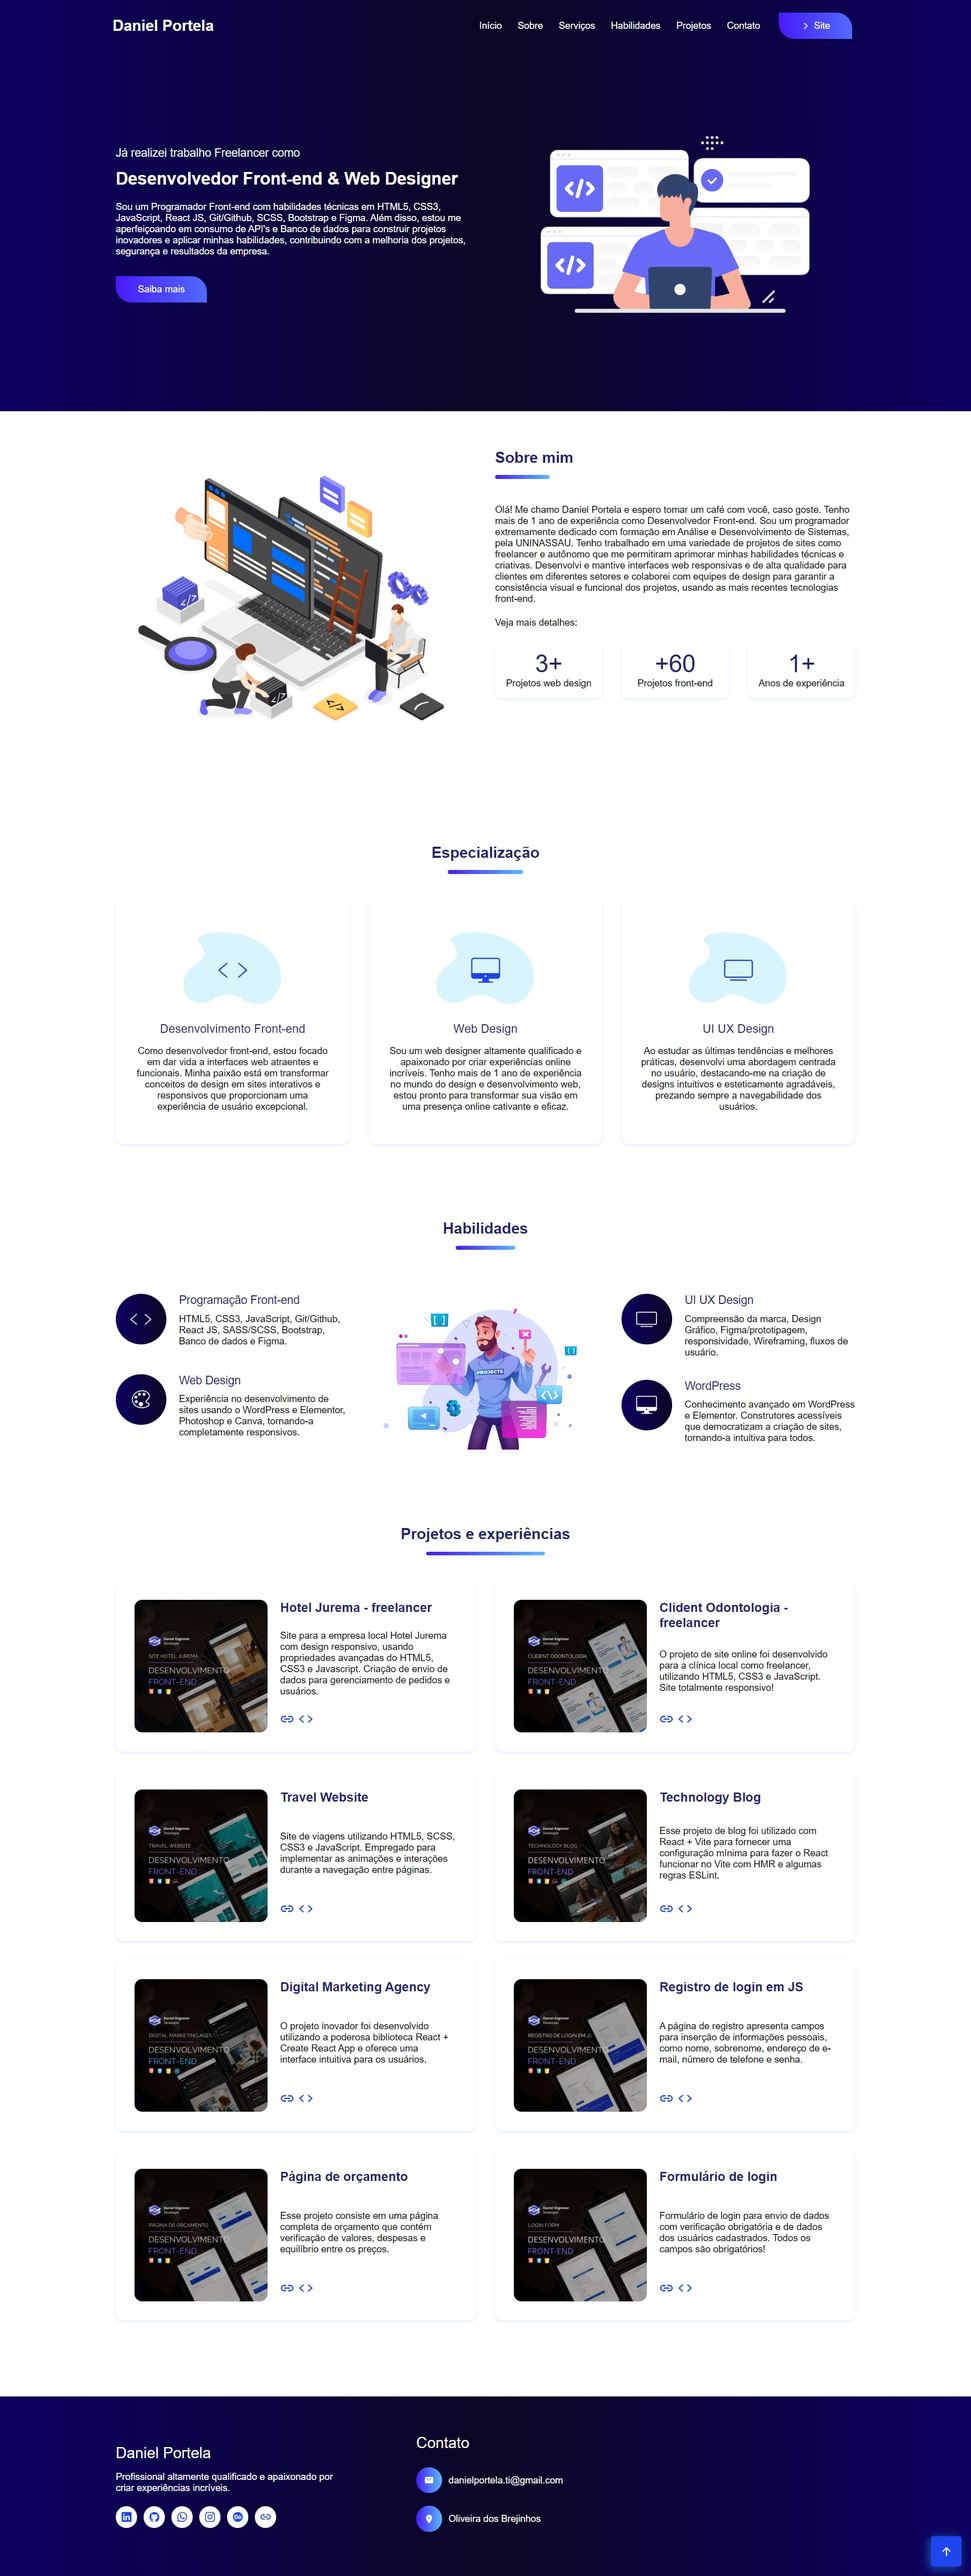
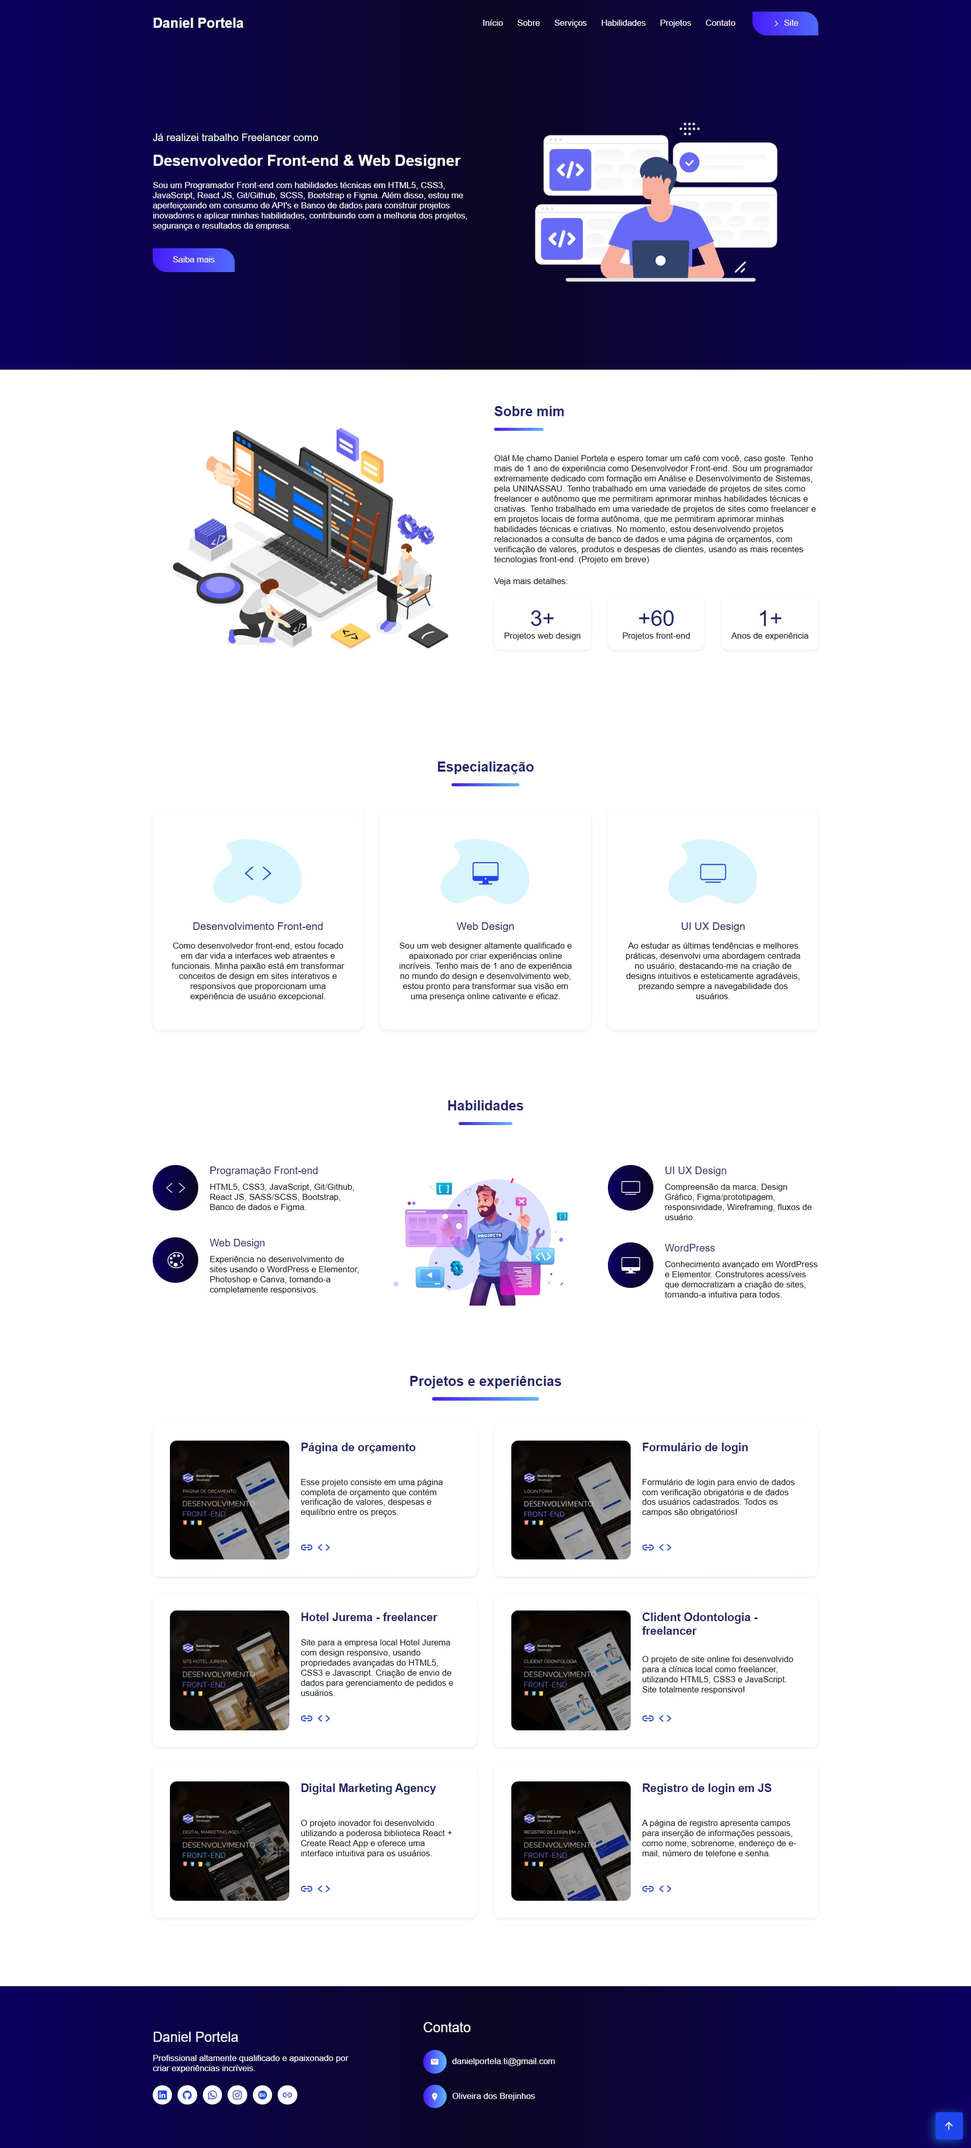
novas atualizações incluidas

diff --git a/index.html b/index.html
@@ -103,10 +103,12 @@
               dedicado com formação em Análise e Desenvolvimento de Sistemas, pela UNINASSAU. Tenho trabalhado em uma
               variedade de projetos de sites como freelancer e autônomo que me permitiram aprimorar minhas habilidades
               técnicas e
-              criativas. Desenvolvi e mantive interfaces web responsivas e de alta qualidade para clientes em diferentes
-              setores e
-              colaborei com equipes de design para garantir a consistência visual e funcional dos projetos, usando as
-              mais recentes tecnologias front-end.
+              criativas. Tenho trabalhado em uma variedade de projetos de sites como freelancer e em projetos locais de
+              forma autônoma, que me permitiram aprimorar minhas habilidades técnicas e criativas.
+
+              No momento, estou desenvolvendo projetos relacionados a consulta de banco de dados e uma página de
+              orçamentos, com verificação de valores, produtos e despesas de clientes, usando as mais recentes
+              tecnologias front-end. (Projeto em breve)
             </p>
 
             <p class="about-text">
@@ -268,6 +270,74 @@
             <li>
               <div class="blog-card">
                 <figure class="banner">
+                  <a href="#/">
+                    <img src="./assets/images/project-7.png" width="750" height="350" loading="lazy"
+                      alt="página de orçamento desenvolvido com html, css e javascript" class="img-cover">
+                  </a>
+                </figure>
+
+                <div class="content">
+                  <h3 class="h3 title">
+                    Página de orçamento
+                  </h3>
+                  <p class="text">
+                    Esse projeto consiste em uma página completa de orçamento que contém verificação de valores,
+                    despesas e equilíbrio entre os preços.
+                  </p>
+
+                  <div class="meta">
+                    <div class="publish-date">
+                      <button class="comment" aria-label="Comment">
+                        <a href="https://pagebudget.netlify.app/" target="_blank"><ion-icon name="link"></ion-icon></a>
+                      </button>
+                      <button class="share" aria-label="Share">
+                        <a href="https://github.com/daniel-portela/Budget-page" target="_blank"><ion-icon
+                            name="code"></ion-icon></a>
+                      </button>
+                    </div>
+                  </div>
+                </div>
+              </div>
+            </li>
+
+            <li>
+              <div class="blog-card">
+                <figure class="banner">
+                  <a href="#/">
+                    <img src="./assets/images/project-8.png" width="750" height="350" loading="lazy"
+                      alt="formulário de login desenvolvido com html, css e javascript" class="img-cover">
+                  </a>
+                </figure>
+
+                <div class="content">
+                  <h3 class="h3 title">
+                    <a href="#">
+                      Formulário de login
+                    </a>
+                  </h3>
+                  <p class="text">
+                    Formulário de login para envio de dados com verificação obrigatória e de dados dos usuários
+                    cadastrados. Todos os campos são obrigatórios!
+                  </p>
+
+                  <div class="meta">
+                    <div class="publish-date">
+                      <button class="comment" aria-label="Comment">
+                        <a href="https://submitloginform.netlify.app/" target="_blank"><ion-icon
+                            name="link"></ion-icon></a>
+                      </button>
+                      <button class="share" aria-label="Share">
+                        <a href="https://github.com/daniel-portela/login-form" target="_blank"><ion-icon
+                            name="code"></ion-icon></a>
+                      </button>
+                    </div>
+                  </div>
+                </div>
+            </li>
+
+            <li>
+              <div class="blog-card">
+                <figure class="banner">
                   <a href="#projects">
                     <img src="./assets/images/project-1.png" width="750" height="250" loading="lazy"
                       alt="Site hotel jurema desenvolvido com html, css e javascript" class="img-cover">
@@ -324,74 +394,6 @@
                       </button>
                       <button class="share" aria-label="Share">
                         <a href="https://github.com/daniel-portela/clident-odontologia" target="_blank"><ion-icon
-                            name="code"></ion-icon></a>
-                      </button>
-                    </div>
-                  </div>
-                </div>
-            </li>
-
-            <li>
-              <div class="blog-card">
-                <figure class="banner">
-                  <a href="#/">
-                    <img src="./assets/images/project-3.png" width="750" height="350" loading="lazy"
-                      alt="Site de viagens desenvolvido com html, css, scss e javascript" class="img-cover">
-                  </a>
-                </figure>
-
-                <div class="content">
-                  <h3 class="h3 title">
-                    Travel Website
-                  </h3>
-                  <p class="text">
-                    Site de viagens utilizando HTML5, SCSS, CSS3 e JavaScript. Empregado para implementar as animações e
-                    interações durante a navegação entre páginas.
-                  </p>
-
-                  <div class="meta">
-                    <div class="publish-date">
-                      <button class="comment" aria-label="Comment">
-                        <a href="https://travelsiteviagem.netlify.app/" target="_blank"><ion-icon
-                            name="link"></ion-icon></a>
-                      </button>
-                      <button class="share" aria-label="Share">
-                        <a href="https://github.com/daniel-portela/travel-website" target="_blank"><ion-icon
-                            name="code"></ion-icon></a>
-                      </button>
-                    </div>
-                  </div>
-                </div>
-              </div>
-            </li>
-
-            <li>
-              <div class="blog-card">
-                <figure class="banner">
-                  <a href="#/">
-                    <img src="./assets/images/project-4.png" width="750" height="350" loading="lazy"
-                      alt="Site de blog desenvolvido com html, css, scss, javascript e react" class="img-cover">
-                  </a>
-                </figure>
-
-                <div class="content">
-                  <h3 class="h3 title">
-                    Technology Blog
-                  </h3>
-                  <p class="text">
-                    Esse projeto de blog foi utilizado com React + Vite para fornecer uma configuração mínima para fazer
-                    o React
-                    funcionar no Vite com HMR e algumas regras ESLint.
-                  </p>
-
-                  <div class="meta">
-                    <div class="publish-date">
-                      <button class="comment" aria-label="Comment">
-                        <a href="https://technology-blog-tan.vercel.app/" target="_blank"><ion-icon
-                            name="link"></ion-icon></a>
-                      </button>
-                      <button class="share" aria-label="Share">
-                        <a href="https://github.com/daniel-portela/technology-blog" target="_blank"><ion-icon
                             name="code"></ion-icon></a>
                       </button>
                     </div>
@@ -466,74 +468,6 @@
                   </div>
                 </div>
             </li>
-
-            <li>
-              <div class="blog-card">
-                <figure class="banner">
-                  <a href="#/">
-                    <img src="./assets/images/project-7.png" width="750" height="350" loading="lazy"
-                      alt="página de orçamento desenvolvido com html, css e javascript" class="img-cover">
-                  </a>
-                </figure>
-
-                <div class="content">
-                  <h3 class="h3 title">
-                    Página de orçamento
-                  </h3>
-                  <p class="text">
-                    Esse projeto consiste em uma página completa de orçamento que contém verificação de valores,
-                    despesas e equilíbrio entre os preços.
-                  </p>
-
-                  <div class="meta">
-                    <div class="publish-date">
-                      <button class="comment" aria-label="Comment">
-                        <a href="https://pagebudget.netlify.app/" target="_blank"><ion-icon name="link"></ion-icon></a>
-                      </button>
-                      <button class="share" aria-label="Share">
-                        <a href="https://github.com/daniel-portela/Budget-page" target="_blank"><ion-icon
-                            name="code"></ion-icon></a>
-                      </button>
-                    </div>
-                  </div>
-                </div>
-              </div>
-            </li>
-
-            <li>
-              <div class="blog-card">
-                <figure class="banner">
-                  <a href="#/">
-                    <img src="./assets/images/project-8.png" width="750" height="350" loading="lazy"
-                      alt="formulário de login desenvolvido com html, css e javascript" class="img-cover">
-                  </a>
-                </figure>
-
-                <div class="content">
-                  <h3 class="h3 title">
-                    <a href="#">
-                      Formulário de login
-                    </a>
-                  </h3>
-                  <p class="text">
-                    Formulário de login para envio de dados com verificação obrigatória e de dados dos usuários
-                    cadastrados. Todos os campos são obrigatórios!
-                  </p>
-
-                  <div class="meta">
-                    <div class="publish-date">
-                      <button class="comment" aria-label="Comment">
-                        <a href="https://submitloginform.netlify.app/" target="_blank"><ion-icon
-                            name="link"></ion-icon></a>
-                      </button>
-                      <button class="share" aria-label="Share">
-                        <a href="https://github.com/daniel-portela/login-form" target="_blank"><ion-icon
-                            name="code"></ion-icon></a>
-                      </button>
-                    </div>
-                  </div>
-                </div>
-            </li>
           </ul>
         </div>
       </section>
@@ -551,7 +485,7 @@
 
           <ul class="social-list">
             <li>
-              <a href="https://www.linkedin.com/in/danielengineer/" class="social-link" target="_blank">
+              <a href="https://www.linkedin.com/in/danielportelati/" class="social-link" target="_blank">
                 <ion-icon name="logo-linkedin"></ion-icon>
               </a>
             </li>
@@ -562,7 +496,7 @@
               </a>
             </li>
             <li>
-              <a href="https://wa.me/77999109489" class="social-link" target="_blank">
+              <a href="https://wa.me/77999408643" class="social-link" target="_blank">
                 <ion-icon name="logo-whatsapp"></ion-icon>
               </a>
             </li>

diff --git a/README.md b/README.md
@@ -11,7 +11,7 @@ Portfólio - Front-end Developer
 <a href="https://danielportela.netlify.app/"><strong>Demonstração ao vivo</strong></a>
 </div>
 
-![preview](https://github.com/daniel-portela/my-portfolio/assets/110783805/520638a2-18ee-4e39-8259-4d161eb46271)
+![alt text](preview.jpg)
 
 ![preview-responsive](https://github.com/daniel-portela/my-portfolio/assets/110783805/a6dd5b5e-02ec-41ec-a390-7b3a728d612c)
 
@@ -71,15 +71,17 @@ Este projeto está sob [LISENCE](LICENSE), o que significa que você não tem pe
 
 <b>Contato:</b>
 
-<p>Se você quiser entrar em contato comigo, sinta-se a vontade.</p> 
+Se você tiver alguma dúvida, sugestão ou interesse em colaborar, não hesite em me contatar.
 
-<a href="https://linkedin.com/in/danielengineer" target="_blank">
+Email: <a href="mailto:danielportela.ti@gmail.com">danielportela.ti@gmail.com</a> 
+
+<a href="https://linkedin.com/in/danielportelati" target="_blank">
   <img align="center" src="https://img.shields.io/badge/ - LinkedIn-05122A?style=flat&logo=linkedin" alt="linkedin"/>
 </a>
  <a href="https://instagram.com/danielengineer_" target="_blank">
  <img align="center" src="https://img.shields.io/badge/ - Instagram-05122A?style=flat&logo=instagram" alt="instagram"/>
 </a>
- <a href="https://wa.me/77999109489" target="_blank">
+ <a href="https://wa.me/77999408643" target="_blank">
  <img align="center" src="https://img.shields.io/badge/-Whatsapp-05122A?style=flat&logo=whatsapp" alt="whatsapp"/>
 </a>
 <a href="https://www.behance.net/danielengineer_" target="_blank">
